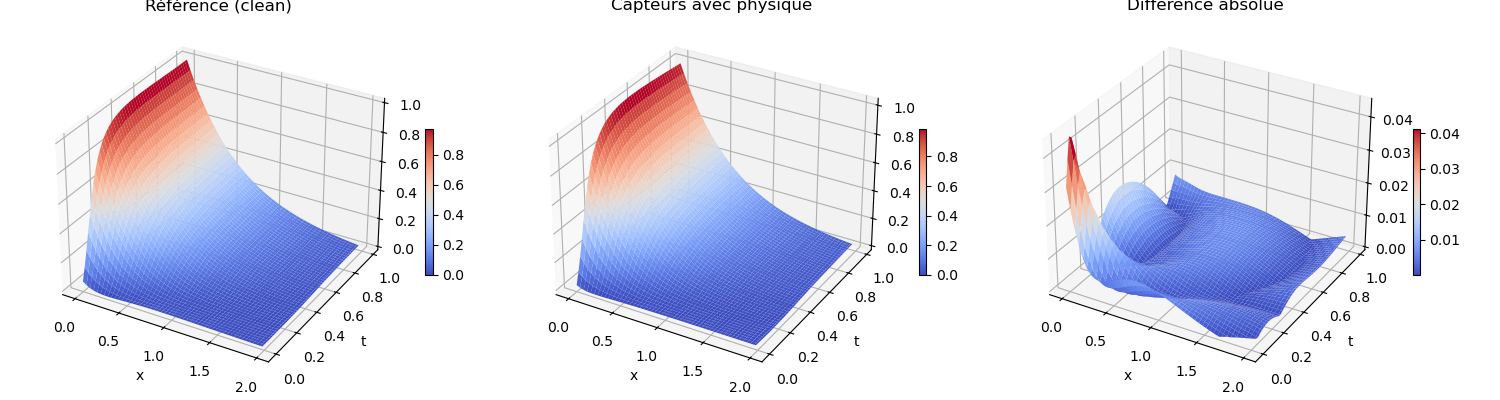
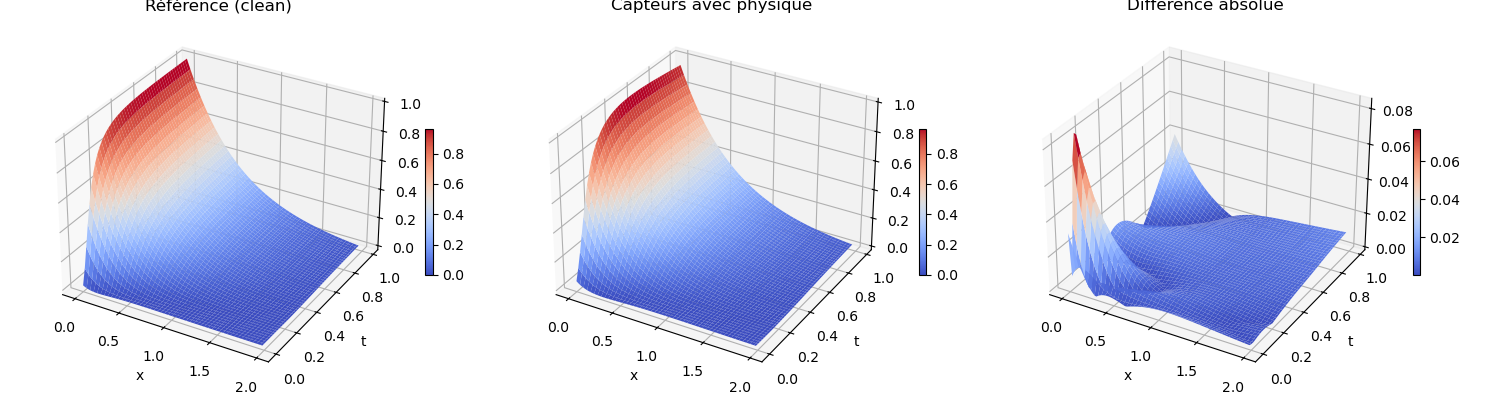
v4

diff --git a/tp.py b/tp.py
@@ -282,7 +282,7 @@ class forward_problem:
 
             # Calcul de la perte globale
             # Vous pouvez ajuster les coefficients si nécessaire
-            loss = mse_f + mse_ic*10 + mse_bc
+            loss = mse_f + mse_ic*20 + mse_bc
 
             # Rétropropagation
             loss.backward()
@@ -298,7 +298,7 @@ class forward_problem:
             # Visualisation périodique
             if epoch == N_iter-1:
                 self.plot_forward()
-    def solve_with_sensors(self, N_iter=1000, ref_path='reference_clean.npz', P_bruit=0.01):
+    def solve_with_sensors(self, N_iter=1000, ref_path='reference_clean.npz', P_bruit=0.01,dist_capteurs=1.5):
 
         # Charger la vérité terrain
         ref = np.load(ref_path)
@@ -308,22 +308,22 @@ class forward_problem:
 
         # --- Extraire les valeurs capteurs à x=0.5 et x=1.5 ---
         x_vals = ms_x_ref[0, :]          # vecteur x (100 valeurs de 0 à 2)
-        idx_05 = np.argmin(np.abs(x_vals - 0.5))   # index le plus proche de 0.5
-        idx_15 = np.argmin(np.abs(x_vals - 1.5))   # index le plus proche de 1.5
+        idx_02 = np.argmin(np.abs(x_vals - 0.2))   # index le plus proche de 0.2
+        idx_d = np.argmin(np.abs(x_vals - dist_capteurs))   # index le plus proche de 1.5
 
         # t et u pour chaque capteur (toutes les valeurs de t)
         t_sensor   = ms_t_ref[:, 0].reshape(-1, 1)          # (50,) toutes les valeurs de t
-        u_sensor_05 = u_ref[:, idx_05].reshape(-1, 1)        # u à x=0.5
-        u_sensor_15 = u_ref[:, idx_15].reshape(-1, 1)        # u à x=1.5
+        u_sensor_02 = u_ref[:, idx_02].reshape(-1, 1)        # u à x=0.2
+        u_sensor_d = u_ref[:, idx_d].reshape(-1, 1)        # u à x=1.5
 
         # Convertir en tenseurs
-        pt_t_s05 = Variable(torch.from_numpy(t_sensor).float(),    requires_grad=False).to(device)
-        pt_x_s05 = Variable(torch.full_like(pt_t_s05, 0.5),        requires_grad=False).to(device)
-        pt_u_s05 = Variable(torch.from_numpy(u_sensor_05).float()+torch.randn(*u_sensor_05.shape)*P_bruit, requires_grad=False).to(device)
+        pt_t_s02 = Variable(torch.from_numpy(t_sensor).float(),    requires_grad=False).to(device)
+        pt_x_s02 = Variable(torch.full_like(pt_t_s02, 0.2),        requires_grad=False).to(device)
+        pt_u_s02 = Variable(torch.from_numpy(u_sensor_02).float()+torch.randn(*u_sensor_02.shape)*P_bruit, requires_grad=False).to(device)
 
-        pt_t_s15 = Variable(torch.from_numpy(t_sensor).float(),    requires_grad=False).to(device)
-        pt_x_s15 = Variable(torch.full_like(pt_t_s15, 1.5),        requires_grad=False).to(device)
-        pt_u_s15 = Variable(torch.from_numpy(u_sensor_15).float()+torch.randn(*u_sensor_15.shape)*P_bruit, requires_grad=False).to(device)
+        pt_t_sd = Variable(torch.from_numpy(t_sensor).float(),    requires_grad=False).to(device)
+        pt_x_sd = Variable(torch.full_like(pt_t_sd, dist_capteurs),        requires_grad=False).to(device)
+        pt_u_sd = Variable(torch.from_numpy(u_sensor_d).float()+torch.randn(*u_sensor_d.shape)*P_bruit, requires_grad=False).to(device)
 
         # --- Setup entraînement ---
         net = self.net
@@ -345,18 +345,18 @@ class forward_problem:
             f_ic     = self.f_ic(pt_x_ic, pt_t_ic)
             mse_ic   = mse(f_ic, torch.zeros_like(f_ic))
 
-            # 3. Données capteurs à x=0.5
-            u_pred_05 = net(pt_x_s05, pt_t_s05)
-            mse_s05   = mse(u_pred_05, pt_u_s05)
-            pt_u_s05 = Variable(torch.from_numpy(u_sensor_05).float()+torch.randn(*u_sensor_05.shape)*P_bruit, requires_grad=False).to(device)
+            # 3. Données capteurs à x=0.2
+            u_pred_02 = net(pt_x_s02, pt_t_s02)
+            mse_s02   = mse(u_pred_02, pt_u_s02)
+            pt_u_s02 = Variable(torch.from_numpy(u_sensor_02).float()+torch.randn(*u_sensor_02.shape)*P_bruit, requires_grad=False).to(device)
 
             # 4. Données capteurs à x=1.5
-            u_pred_15 = net(pt_x_s15, pt_t_s15)
-            mse_s15   = mse(u_pred_15, pt_u_s15)
-            pt_u_s15 = Variable(torch.from_numpy(u_sensor_15).float()+torch.randn(*u_sensor_15.shape)*P_bruit, requires_grad=False).to(device)
+            u_pred_d = net(pt_x_sd, pt_t_sd)
+            mse_d    = mse(u_pred_d, pt_u_sd)
+            pt_u_sd = Variable(torch.from_numpy(u_sensor_d).float()+torch.randn(*u_sensor_d.shape)*P_bruit, requires_grad=False).to(device)
 
             # Perte globale (pas de BC !)
-            loss = mse_ic + mse_s05 + mse_s15 + mse_f*0.01
+            loss = mse_ic + mse_s02 + mse_d + mse_f*0.1
 
             loss.backward()
             optimizer.step()
@@ -364,7 +364,7 @@ class forward_problem:
             if epoch <= 10 or epoch == 25 or epoch == 50 or epoch % 100 == 0:
                 with torch.autograd.no_grad():
                     print(epoch, "Loss:", loss.data)
-            if loss.data < 0.01:
+            if loss.data < 0.0001:
                 print(f"Convergence atteinte à l'epoch {epoch} avec une perte de {loss.data:.6f}")
                 break
         '''
@@ -441,8 +441,11 @@ class FCN(torch.nn.Module):
       return output
     
 
-
-
+net = FCN().to(device)
+heat_equation = forward_problem(net)
+heat_equation.solve_with_sensors(N_iter=10000, P_bruit=0.0, dist_capteurs=1.5)
+heat_equation.compare_with_reference()
+'''
 # --- Sweep sur les puissances de bruit ---
 noise_levels = [0.0] + np.logspace(-2, 1, 39).tolist()
 max_errors = []
@@ -483,3 +486,4 @@ plt.grid(True)
 plt.tight_layout()
 plt.savefig('erreur_vs_bruit.png', dpi=150)
 plt.show()
+'''
